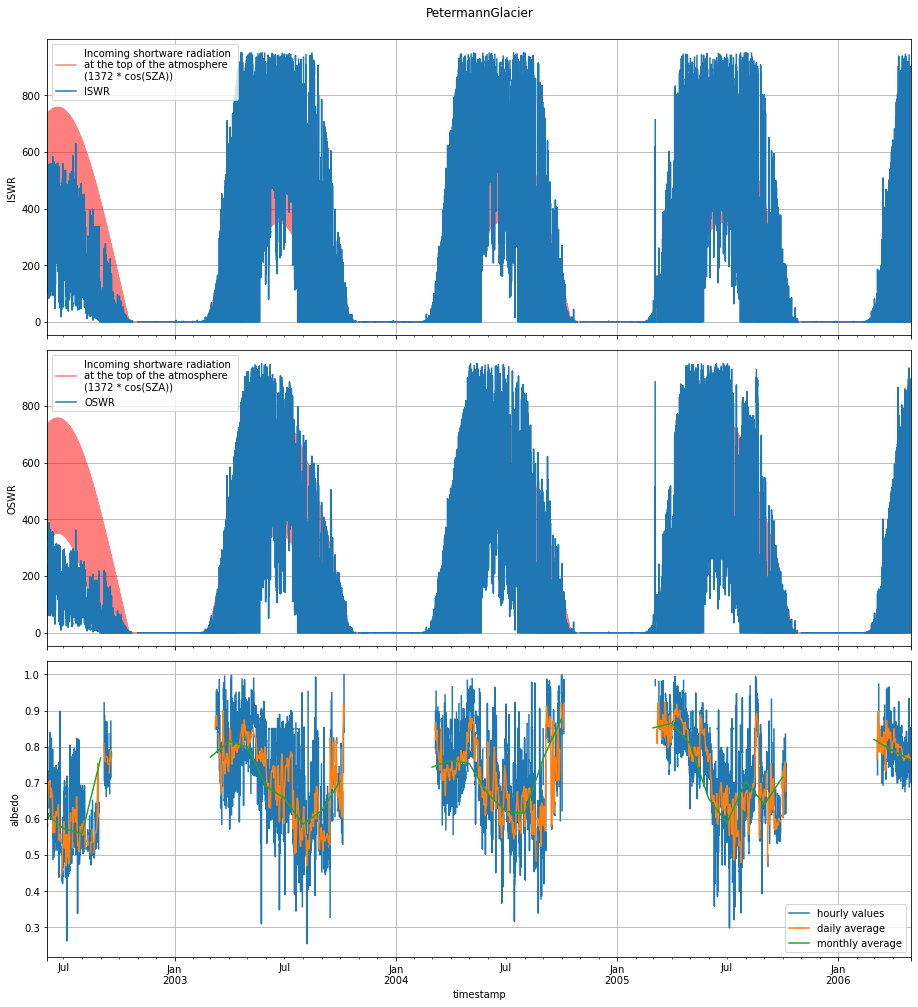
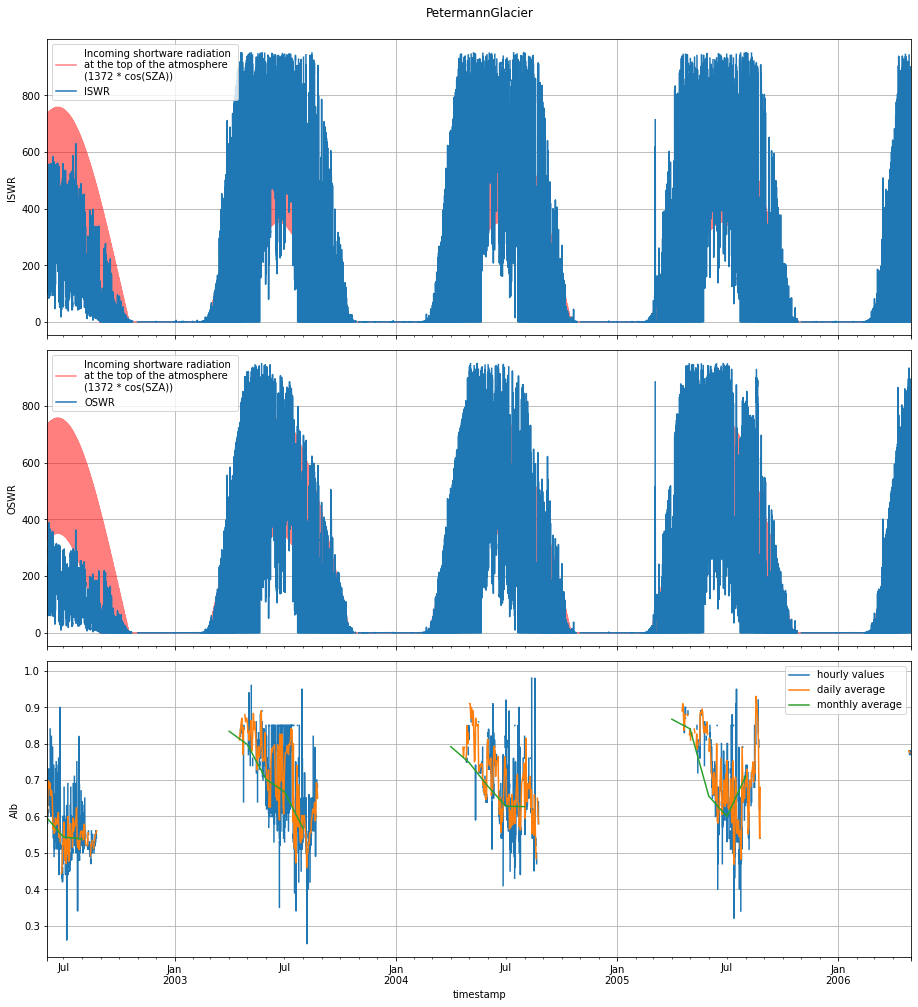
new radiation plots

diff --git a/tools/L1-analysis.py b/tools/L1-analysis.py
@@ -613,10 +613,6 @@ for site, ID in zip(site_list.Name, site_list.ID):
         print('No radiation measurement')
         continue
     
-    df["albedo"] = df.OSWR / df.ISWR
-    msk = (df.OSWR < 100) | (df.ISWR < 100)
-    df.loc[msk, "albedo"] = np.nan
-
     # Calculating zenith and hour angle of the sun
     deg2rad = np.pi / 180
     ZenithAngle_rad = df.SZA * deg2rad
@@ -634,11 +630,11 @@ for site, ID in zip(site_list.Name, site_list.ID):
     )
     plt.suptitle(site)
 
-    for count, var in enumerate(["ISWR", "OSWR", "albedo"]):
+    for count, var in enumerate(["ISWR", "OSWR", "Alb"]):
         if var in ["ISWR", "OSWR"]:
             df["isr_toa"].plot(ax=ax[count], color="r", alpha=0.5,
                                label='Incoming shortware radiation \nat the top of the atmosphere\n(1372 * cos(SZA))')
-        if var =='albedo':
+        if var =='Alb':
             df[var].plot(ax=ax[count],label='hourly values')
             df[var].resample('D').mean().plot(ax=ax[count],label='daily average')
             df[var].resample('M').mean().plot(ax=ax[count],label='monthly average')
